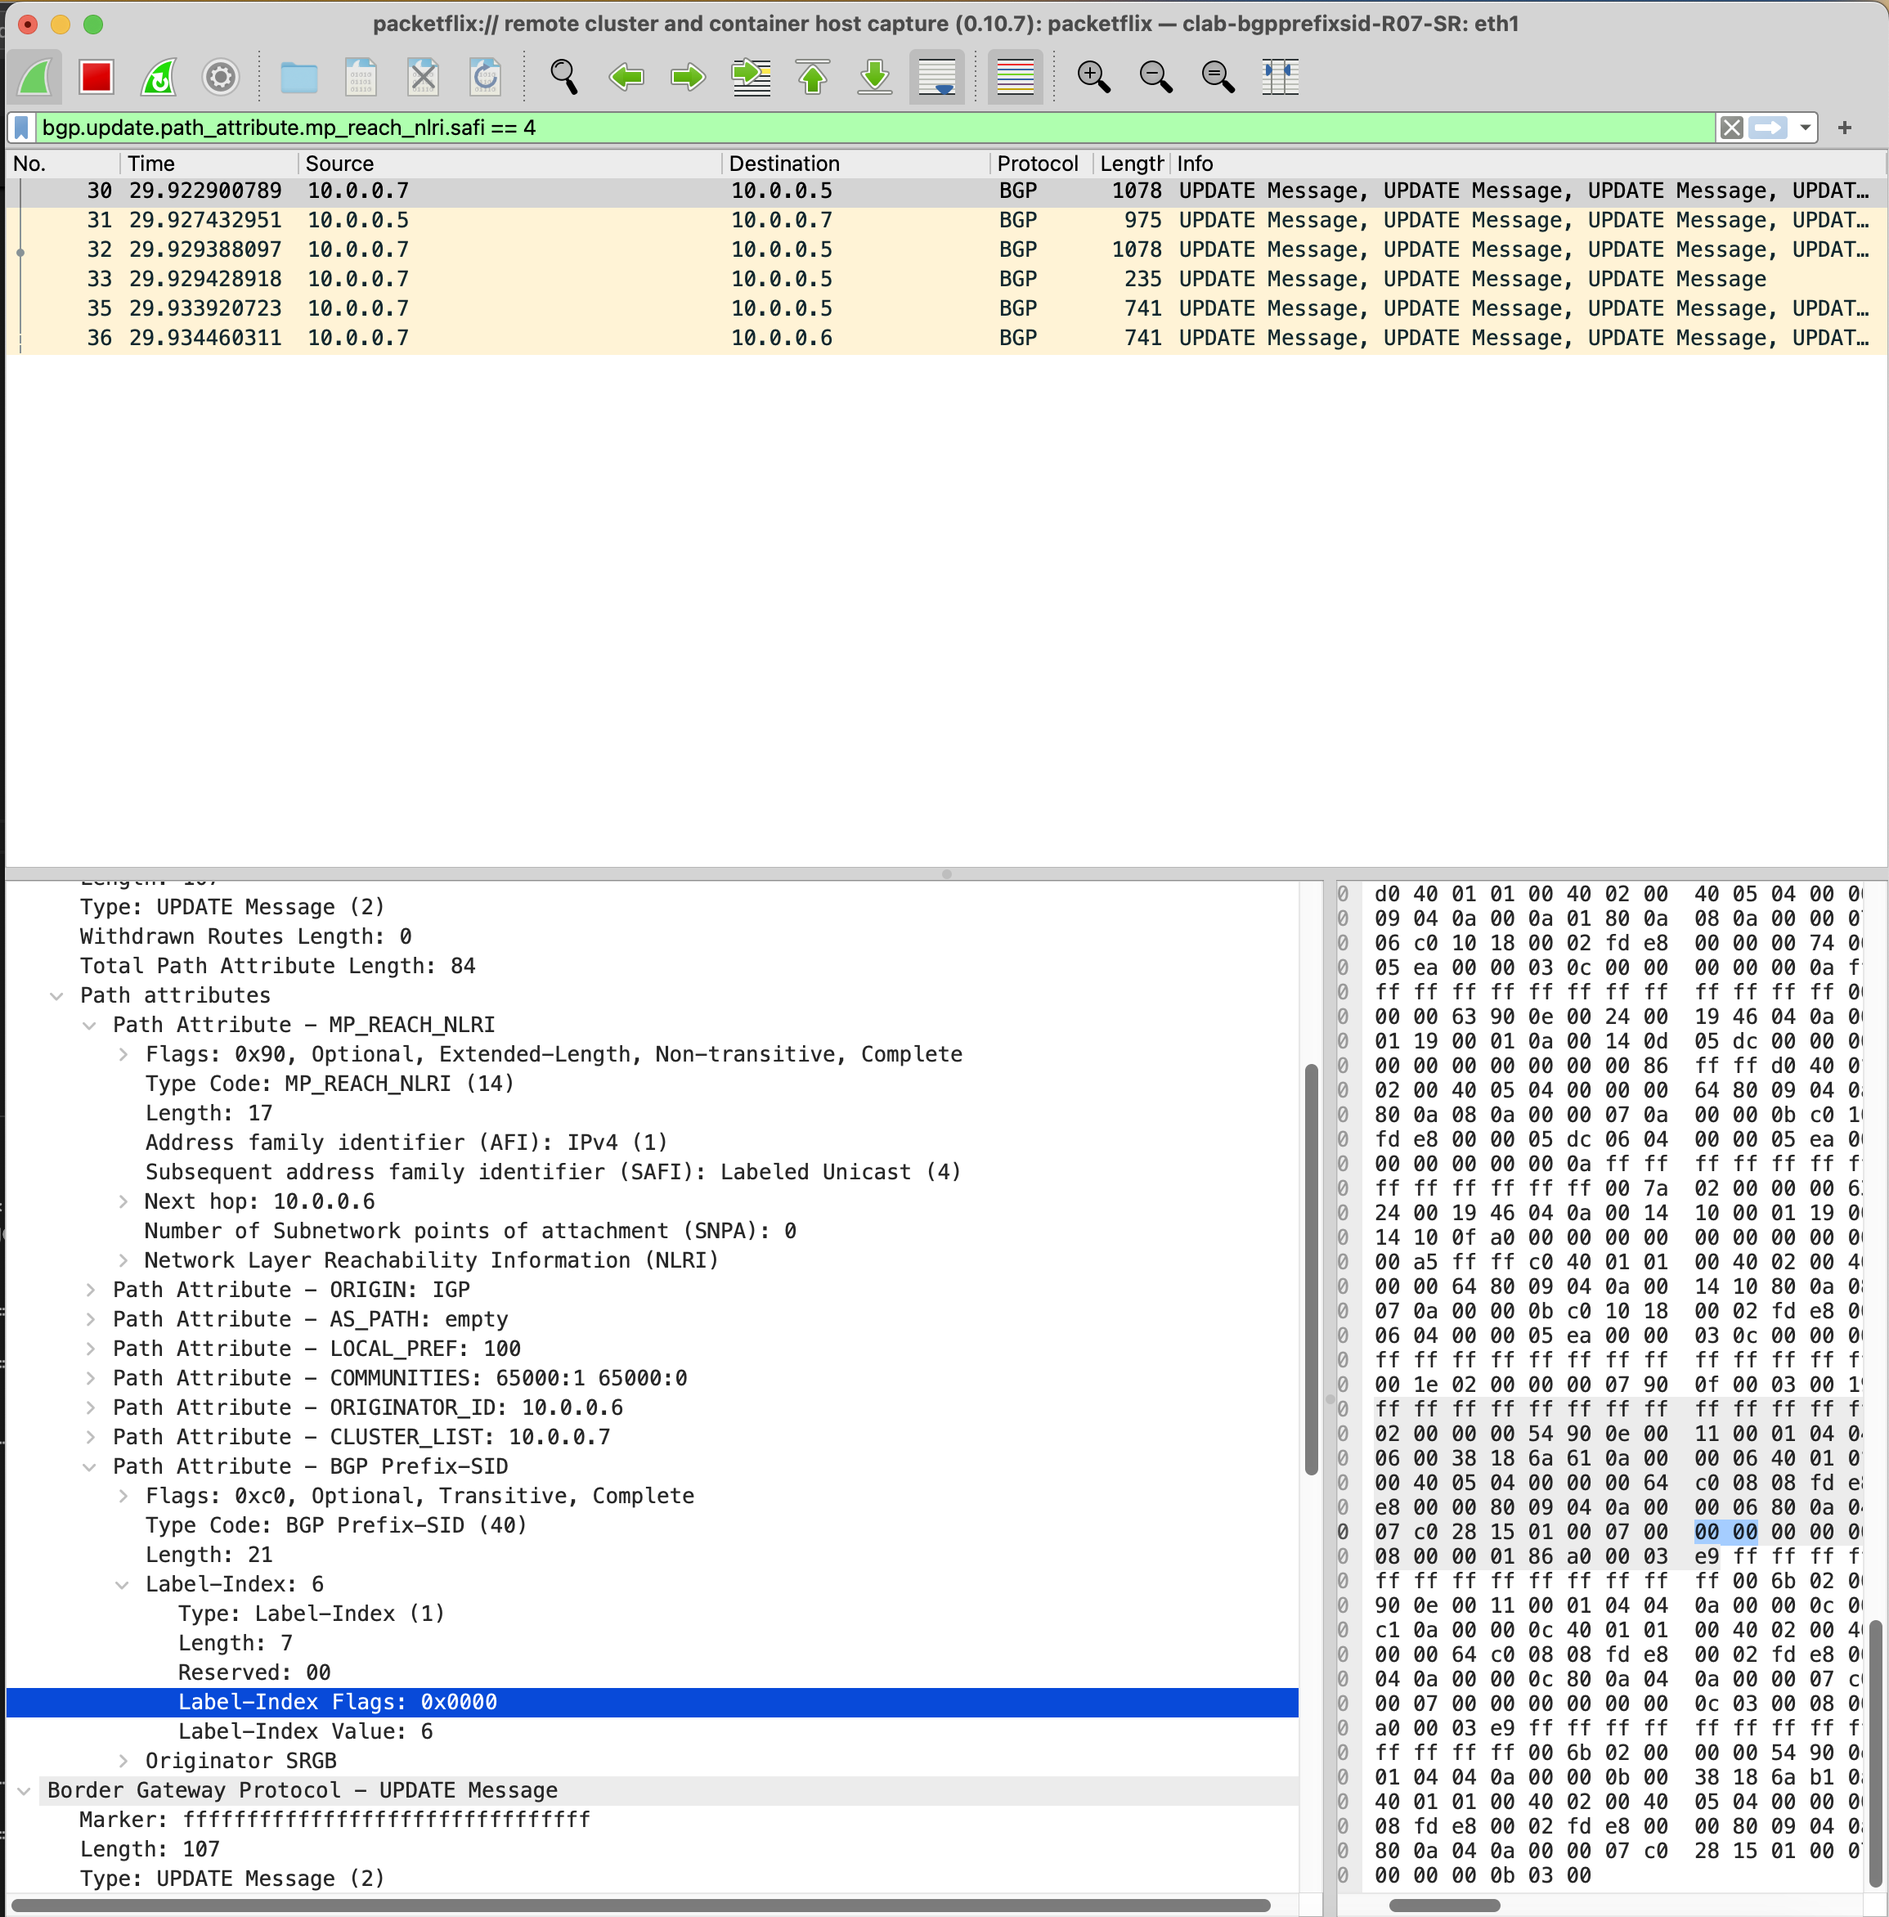
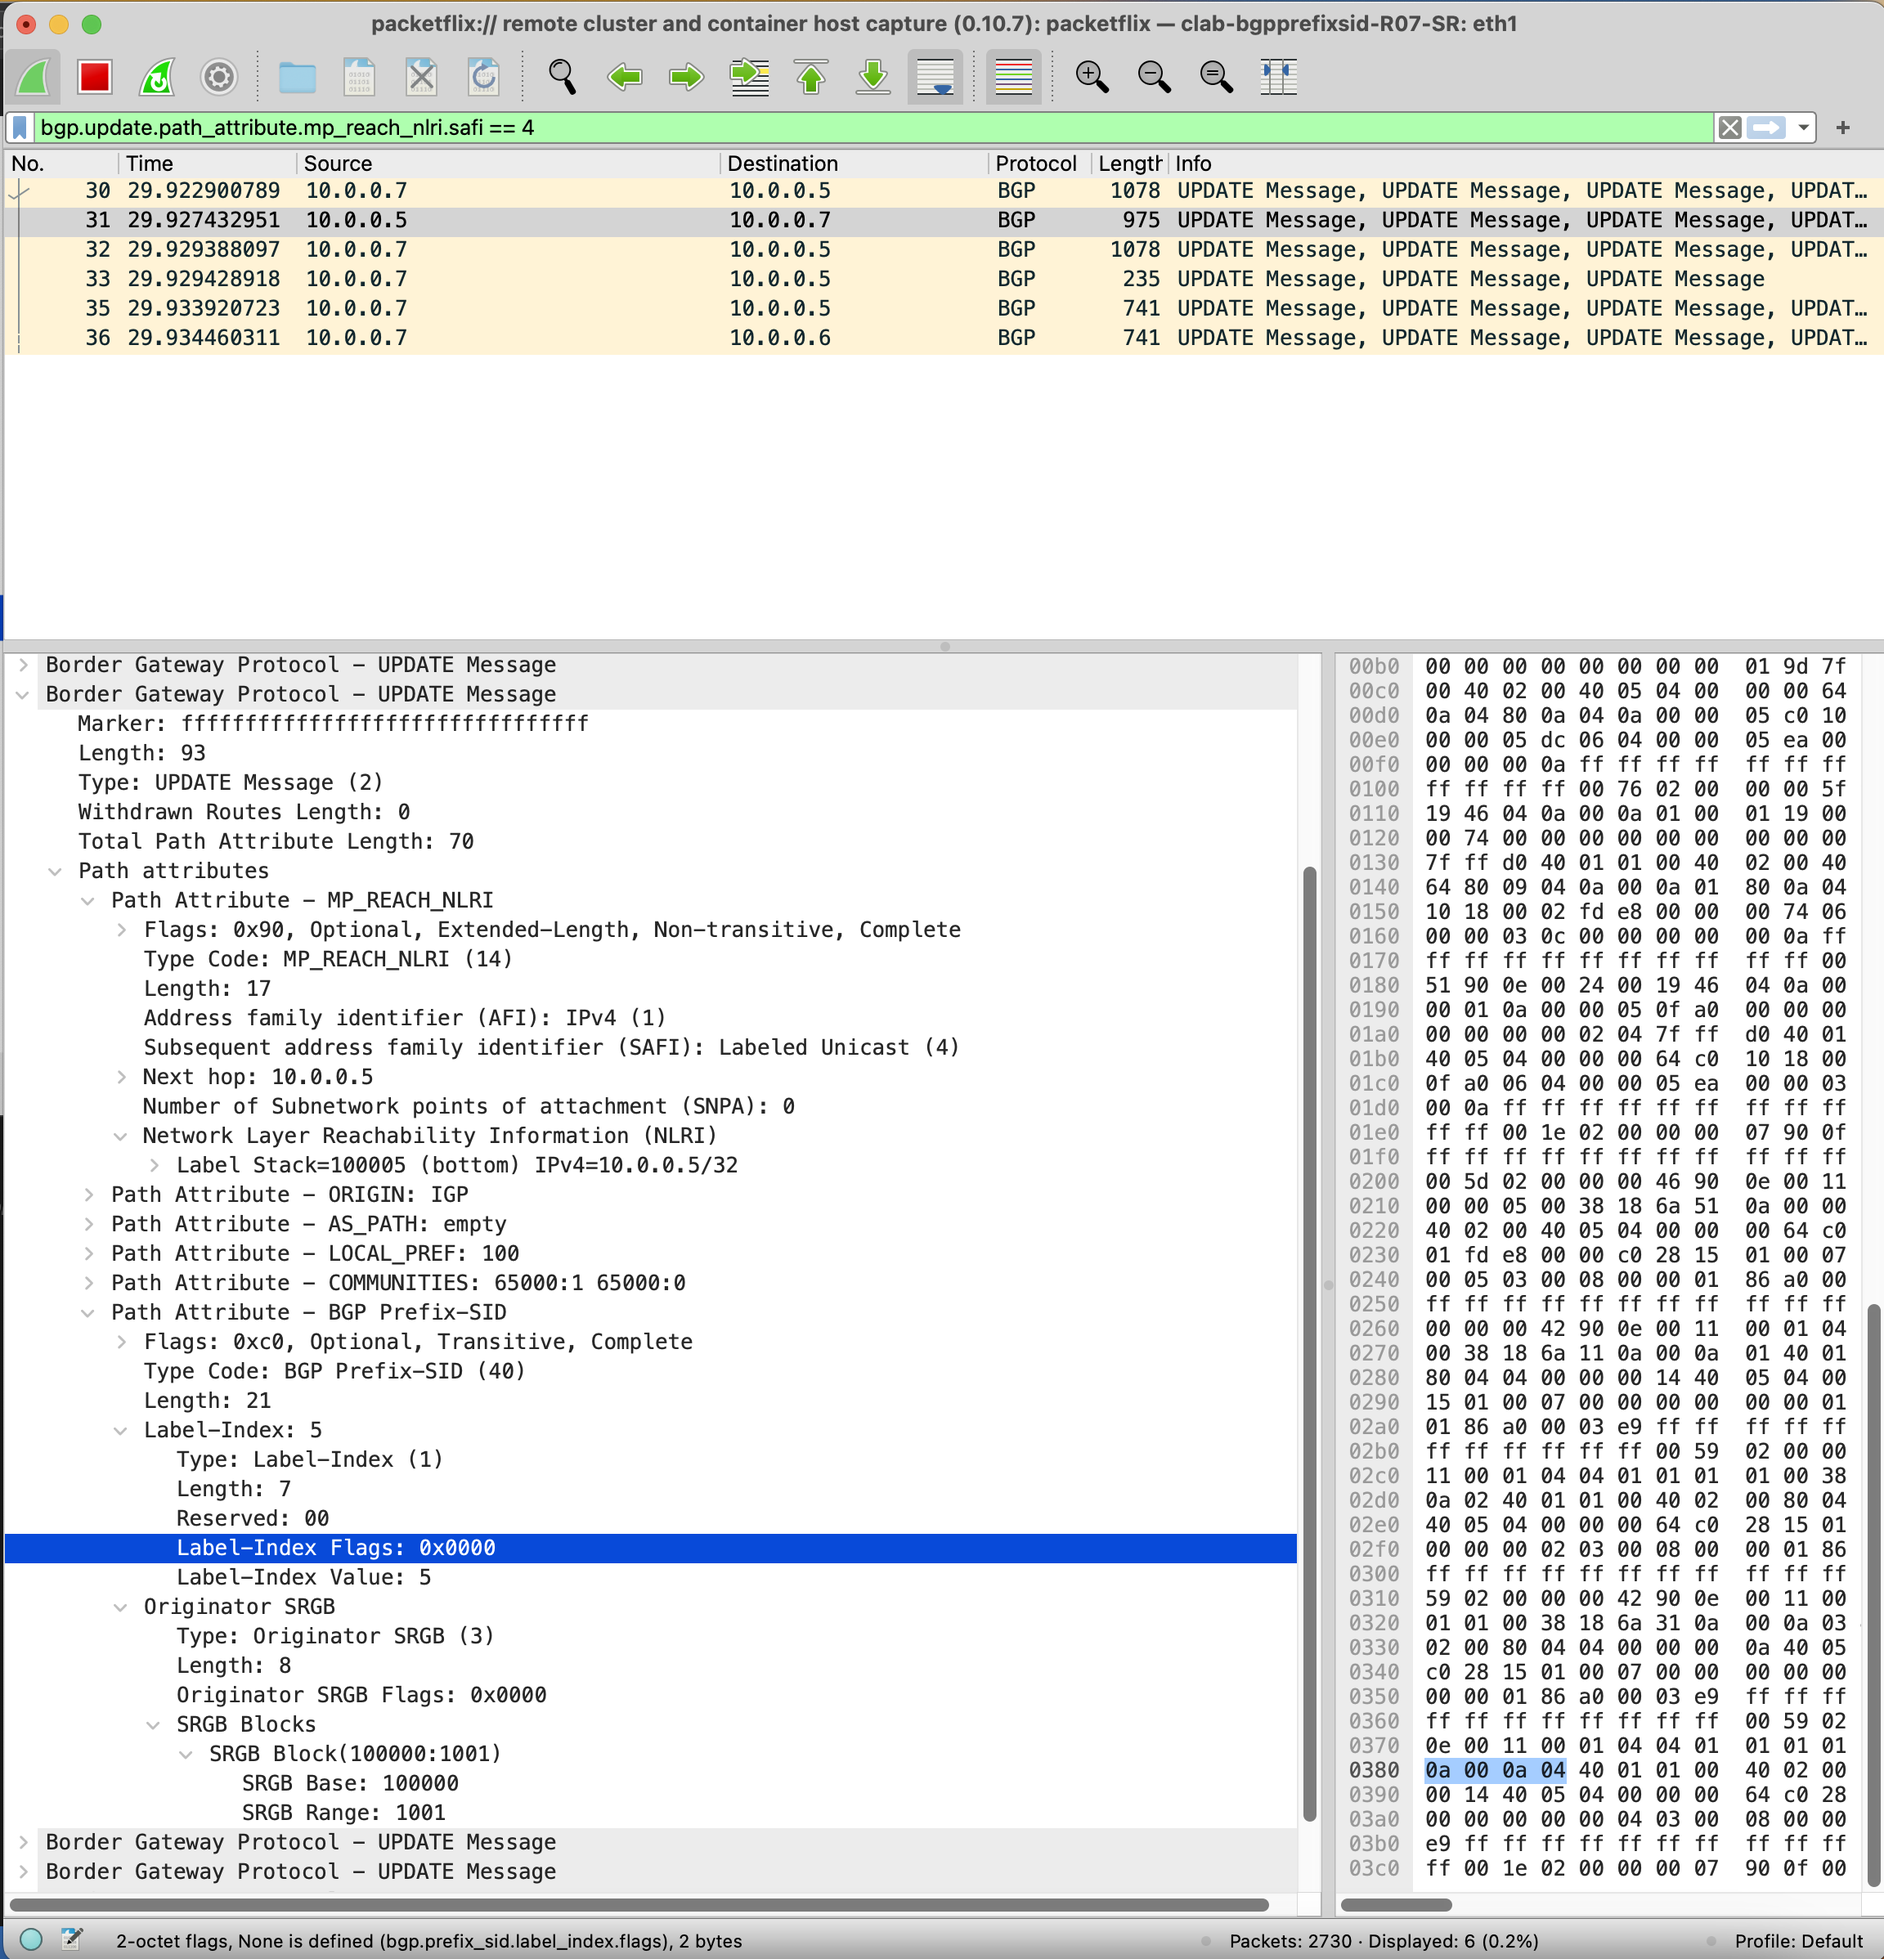
added BGP update for R1 IP Prefix-SID

Changed region(s): [[0.0, 0.0, 1.0, 1.0]]

diff --git a/BGP-PrefixSID-Flags/bgp-prefixsid-flags.md b/BGP-PrefixSID-Flags/bgp-prefixsid-flags.md
@@ -426,10 +426,14 @@ According to [RFC 8669](https://datatracker.ietf.org/doc/rfc8669/), Flags for La
 
 ```
 
+IANA BGP Prefix-SID Label-Index TLV Flags have not been assined. [IANA site](https://www.iana.org/assignments/bgp-parameters/bgp-parameters.xhtml#bgp-prefix-sid-label-index-tlv-flags)
+
+![IANA](./IANA-BGP_PrefixSID-flags.png)
+
 Based on this, BGP update received at 10.0.0.7 from 10.0.0.5 does not contain any Flag.
 
 ![BGP-update](./bgp-prefixsid-flags.png)
 
-IANA BGP Prefix-SID Label-Index TLV Flags have not been assined. [IANA site](https://www.iana.org/assignments/bgp-parameters/bgp-parameters.xhtml#bgp-prefix-sid-label-index-tlv-flags)
+Similarly, when R5 (10.0.0.5) exports and IGP SR-ISIS Prefix-SID from access like R1 (10.0.10.1/32) via BGP-LU to R7 (10.0.0.7), no flags are set.
 
-![IANA](./IANA-BGP_PrefixSID-flags.png)
+![BGP-update](./bgp-prefixsid-flags-2.png)
